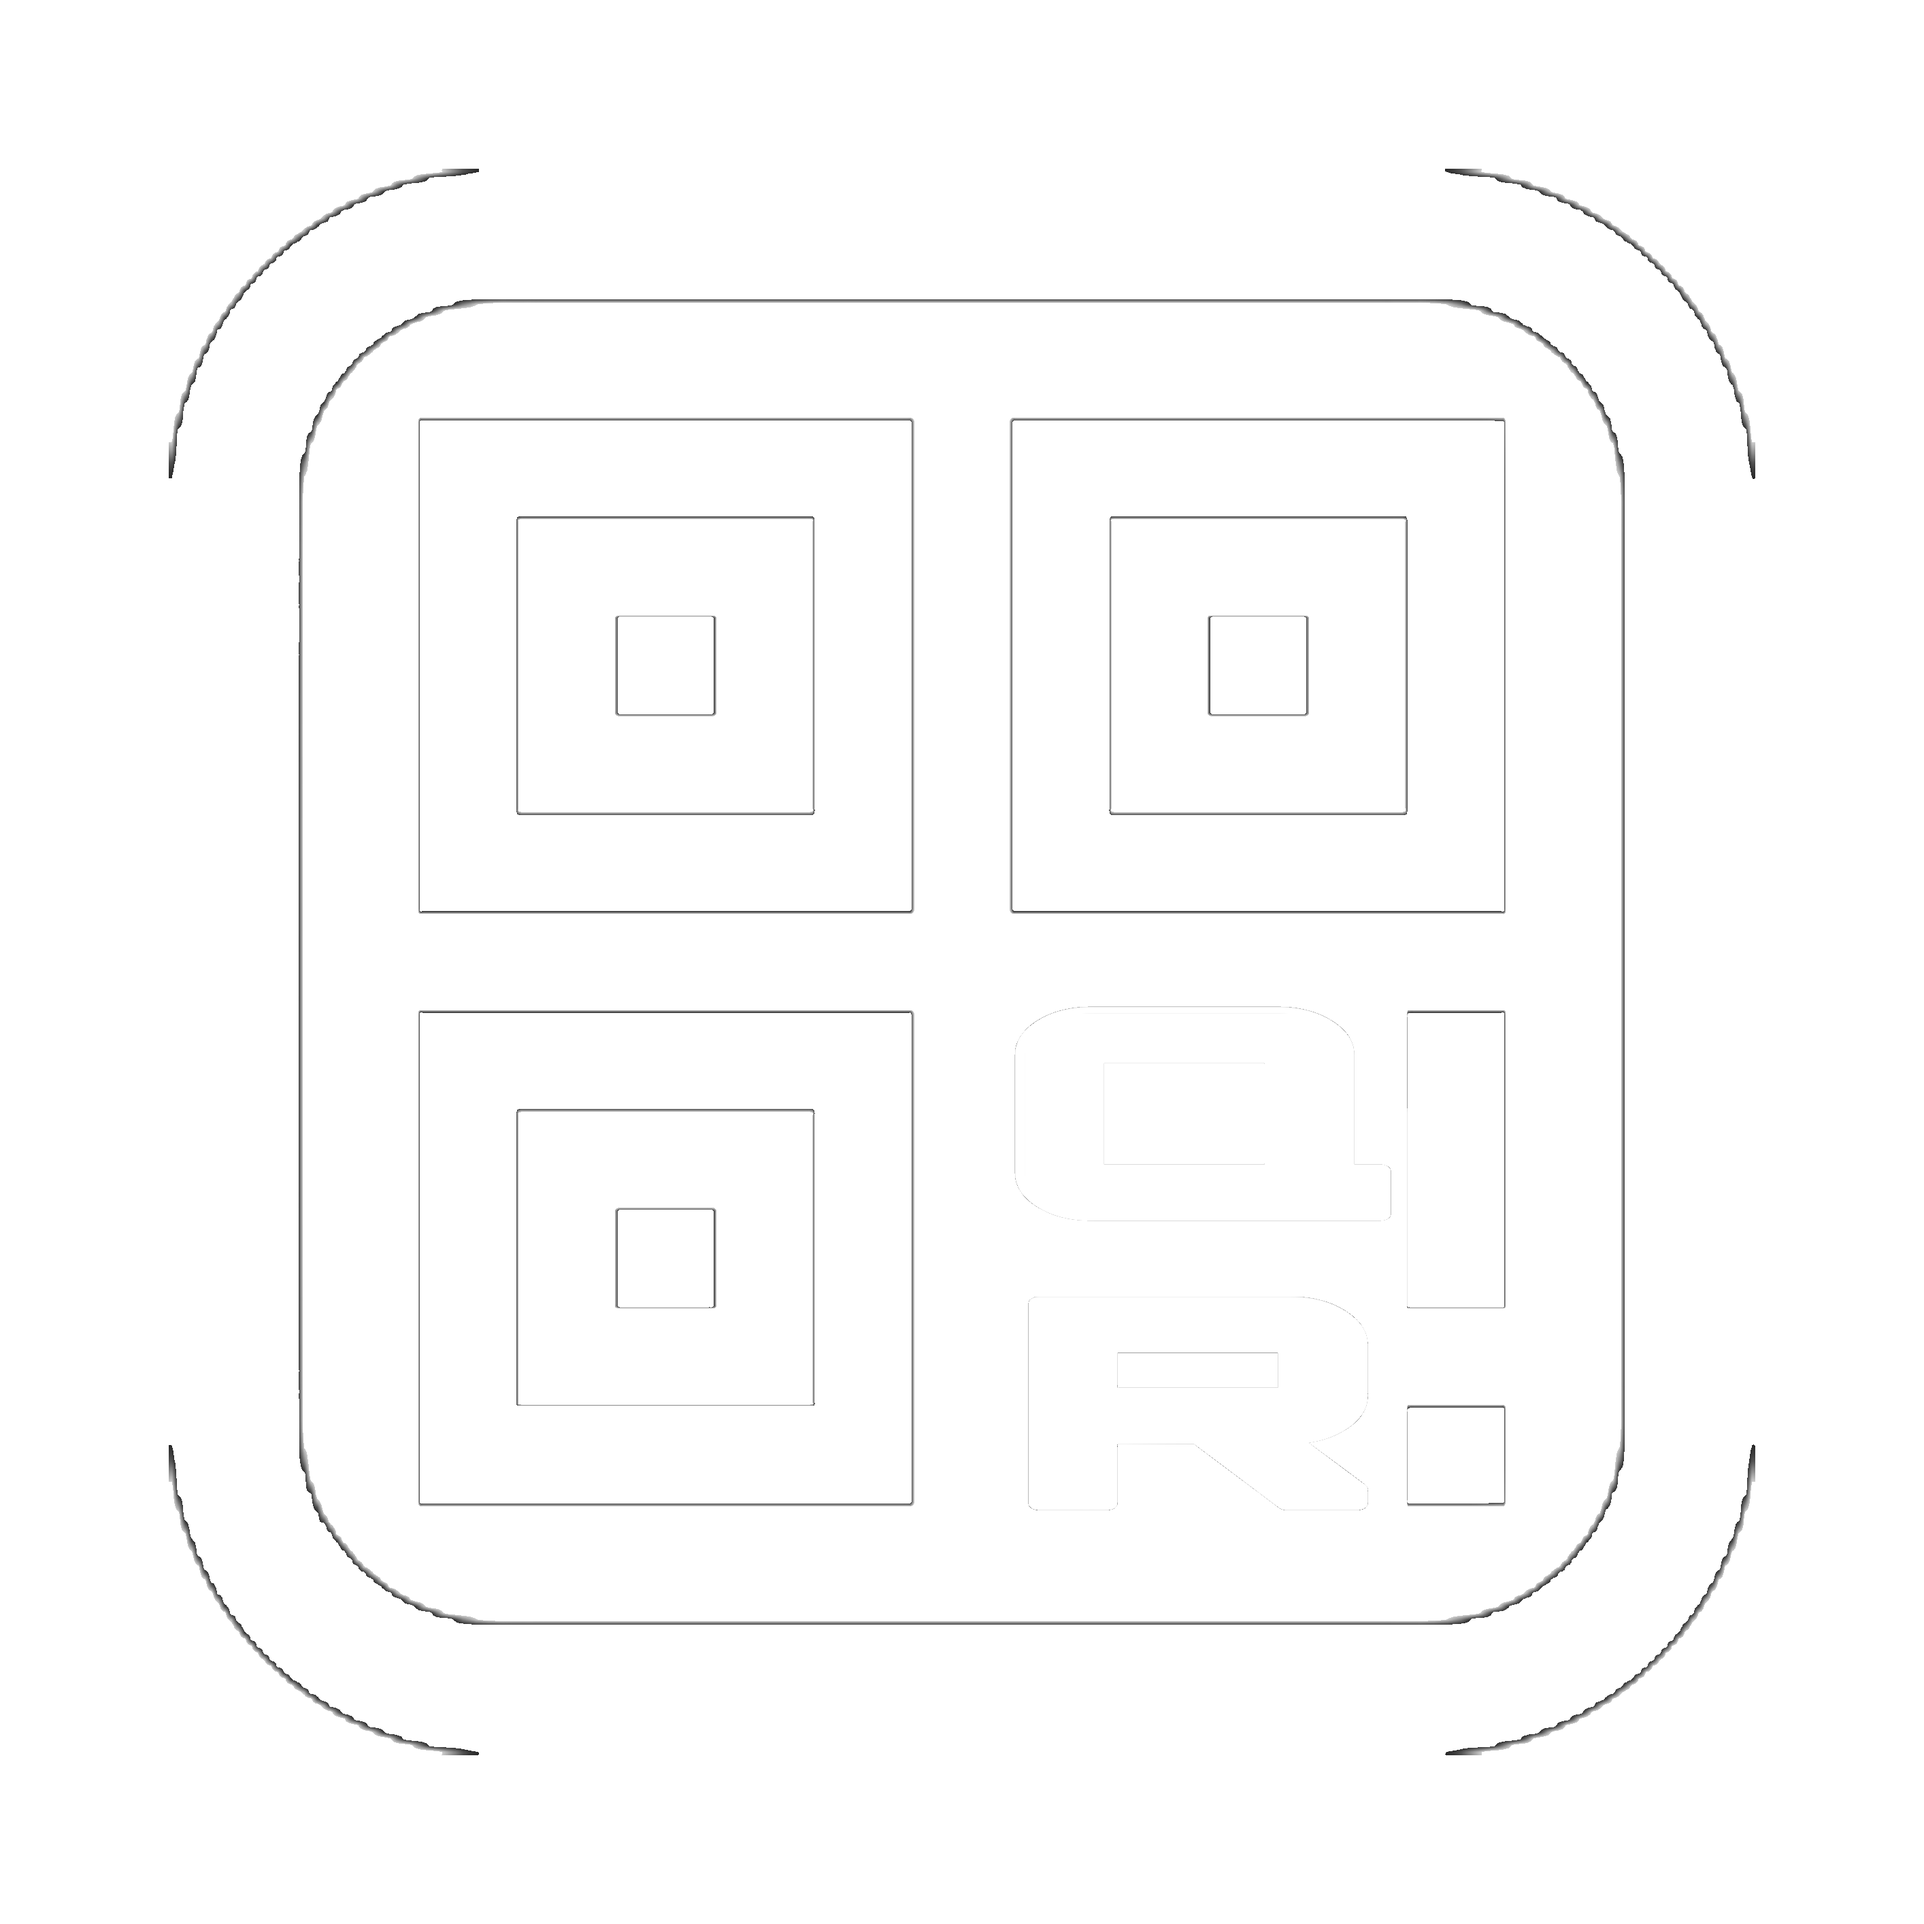
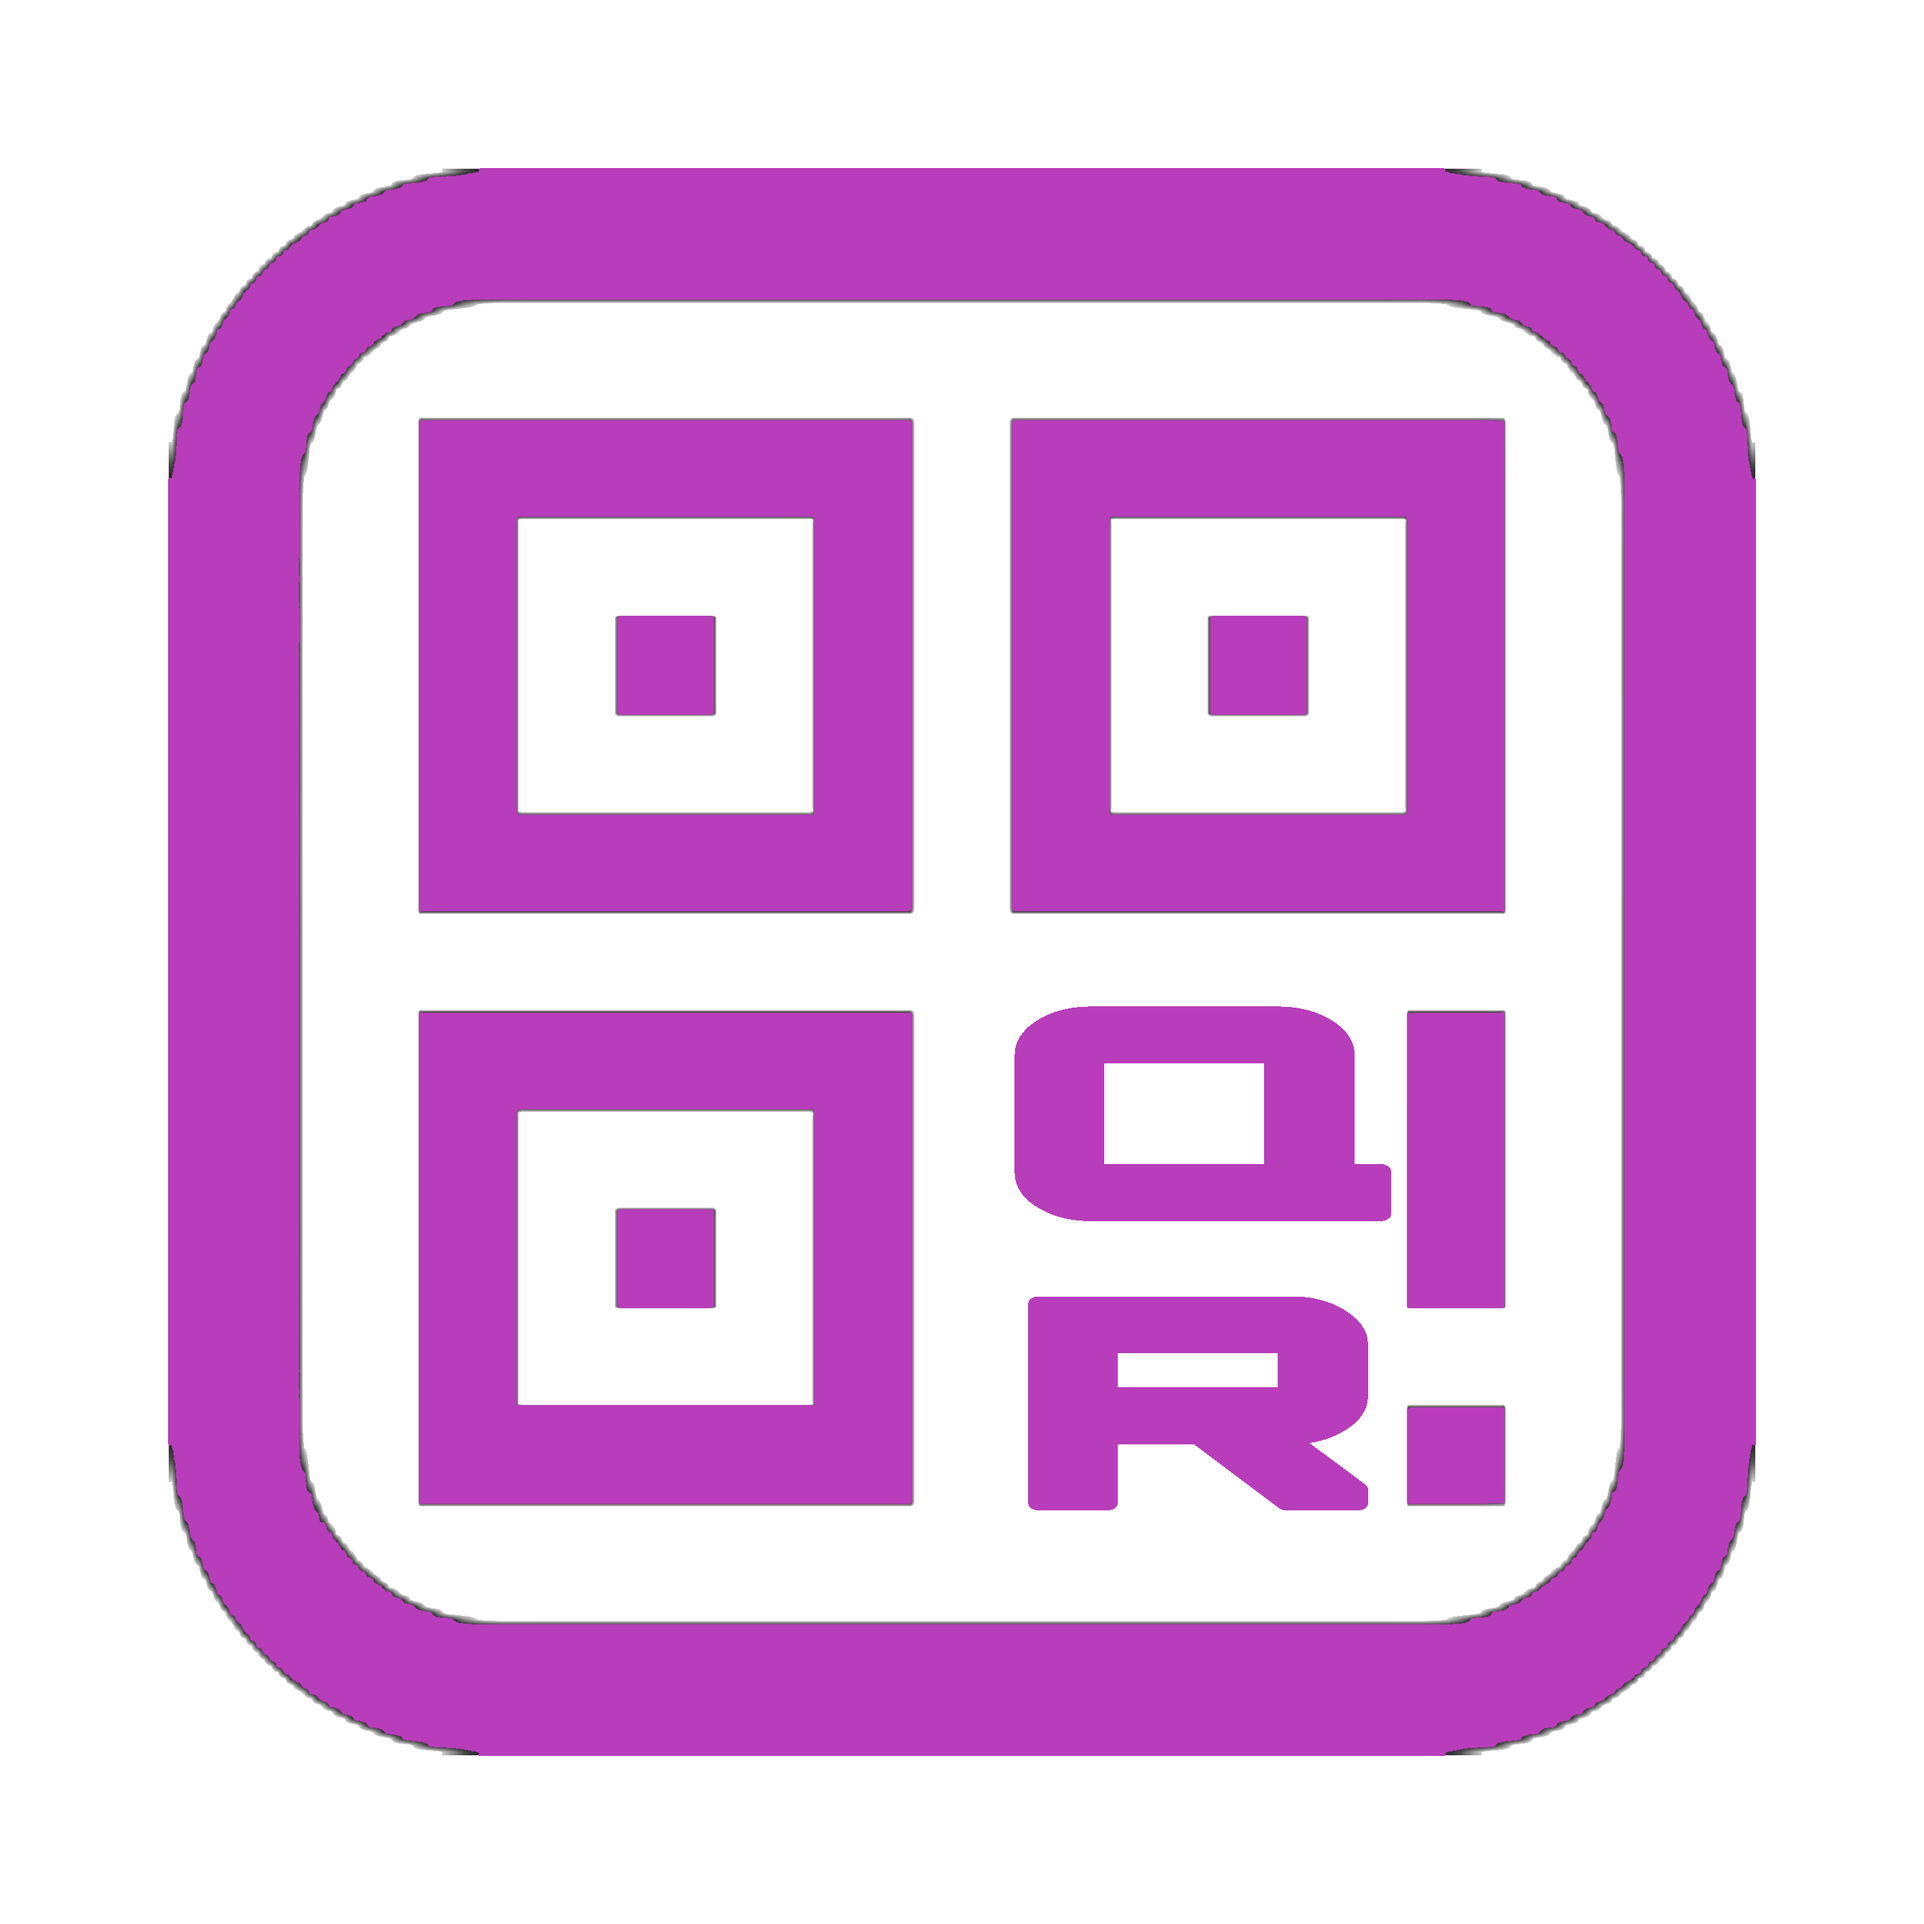
Lapidando CSS

diff --git a/index.html b/index.html
@@ -16,7 +16,7 @@
             <br/><br/>
             <div id="main">
                 <h1>
-                    O lugar mais rápido, fácil e gratuíto para agregar com o que você faz
+                    O lugar mais fácil, rápido e gratuíto para somar com o que você faz
                 </h1> 
                 <br/>
                 <h2>Siga as intruções contidas na imagem abaixo</h2>
@@ -24,10 +24,10 @@
                 <br/><br/>
 
                 <label for="content">Conteúdo:</label><br/>
-                <textarea id="content" placeholder="Digite o conteúdo para gerar o QR Code" maxlength="256" rows="3" id="conteudoQRCode"></textarea>
+                <textarea id="content" placeholder="Digite o conteúdo para gerar o QR Code" maxlength="256" rows="1" id="conteudoQRCode"></textarea>
                 
                 <br/>
-                <button type="button">
+                <button type="button" id="gera">
                     Gerar QR Code
                 </button>
                 
@@ -45,7 +45,7 @@
             </div>
 
             <div id="footer">
-                <p>BADI 2021 - 2021</p>
+                <p id=ft>BADI 2021 - 2021</p>
             </div>
             		            
         </div>

diff --git a/js/script.js b/js/script.js
@@ -16,5 +16,35 @@ btnDownload.addEventListener('click', () => {
   saveAs(imgPath, fileName);
 });
 
-/* (caso der problema no download do QR apagar a variável local title
-  e em filename substituir para 'your_qr.png') */
+document.addEventListener("keypress", function(e) {
+  if (e.key === 'Enter') {
+    var btn = document.querySelector("#gera");
+    btn.click();
+    e.preventDefault();
+  }
+})
+
+
+/* if (code == 13) {
+  var post = $('.status-box').val();
+  if (post.length > 0) {
+    $('<li>').text(post).prependTo('.posts');
+    $('#content').val('');
+    $('.counter').text('500');
+    $('.btn').addClass('disabled');
+    $(this).parents('form').find('.btn').trigger('click');
+  }
+} */
+
+/* <!-- postando ao pressionar enter -->
+  $('.status-box').keypress(function(e){
+    var code = (e.keyCode ? e.keyCode : e.which);
+    if(code == 13) { 
+      var post = $('.status-box').val();
+      $('<li>').text(post).prependTo('.posts');
+      $('.status-box').val('');
+      $('.counter').text('500');
+      $('.btn').addClass('disabled');
+      $(this).parents('form').find('.btn').trigger('click');
+    }
+  }); */

diff --git a/css/style.css b/css/style.css
@@ -33,8 +33,26 @@ html, body {
     resize: none;
 }
 
+#content:focus{
+    border-color:darkmagenta;
+    border-width: 5px;
+    border-radius: 20px;
+    box-shadow: 0 0 0 0;
+    outline: 0;
+}
+
 textarea:invalid {
     border: 10px solid red;
+}
+
+p{
+    color: black;
+    font-family: Trebuchet MS;
+}
+
+#ft {
+    color: white;
+    font-family: Trebuchet MS;
 }
 
 #footer{
@@ -44,11 +62,6 @@ textarea:invalid {
     background: black;
     font-family: Trebuchet MS;
     text-align: right;
-}
-
-p{
-    color: black;
-    font-family: Trebuchet MS;
 }
 
 textarea{
@@ -86,6 +99,10 @@ button {
     border-radius: 0;
     text-decoration: none;
     text-transform: uppercase;
+ }
+
+ button:active {
+     background:#b83dba;
  }
 
  h1, h2, label {
